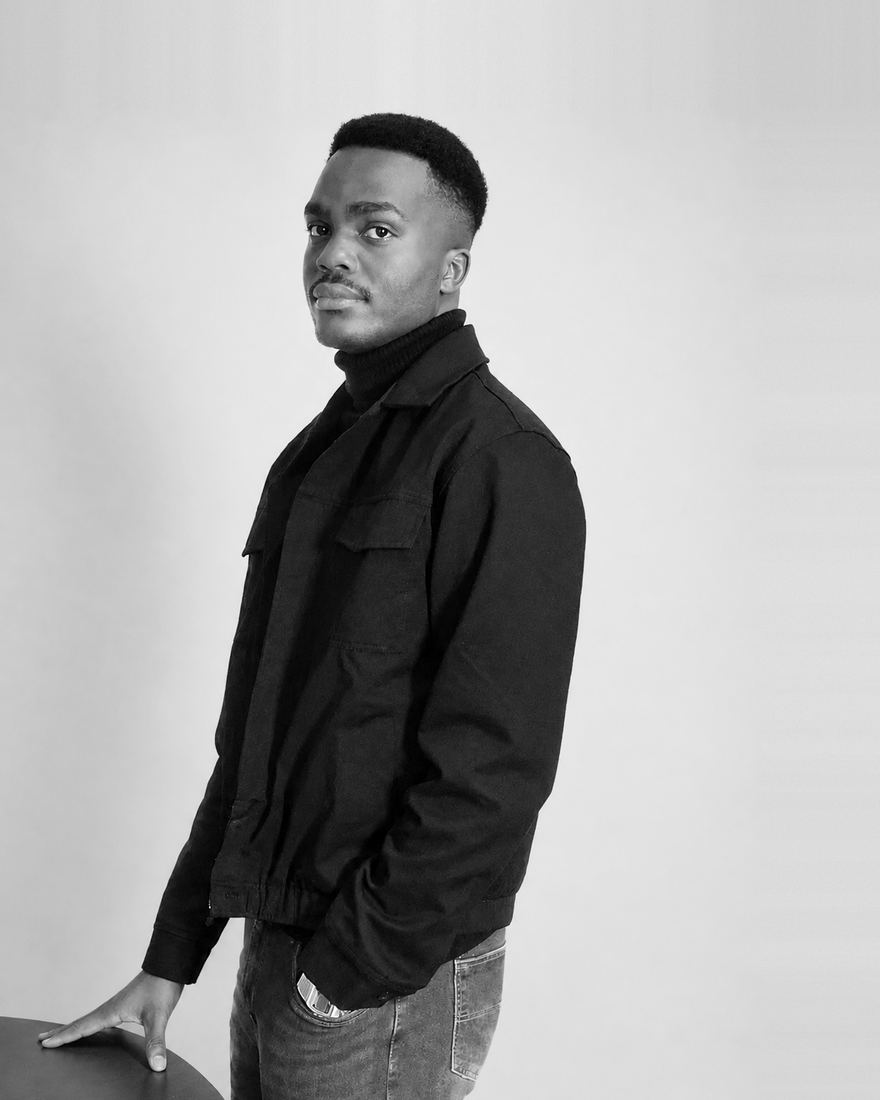
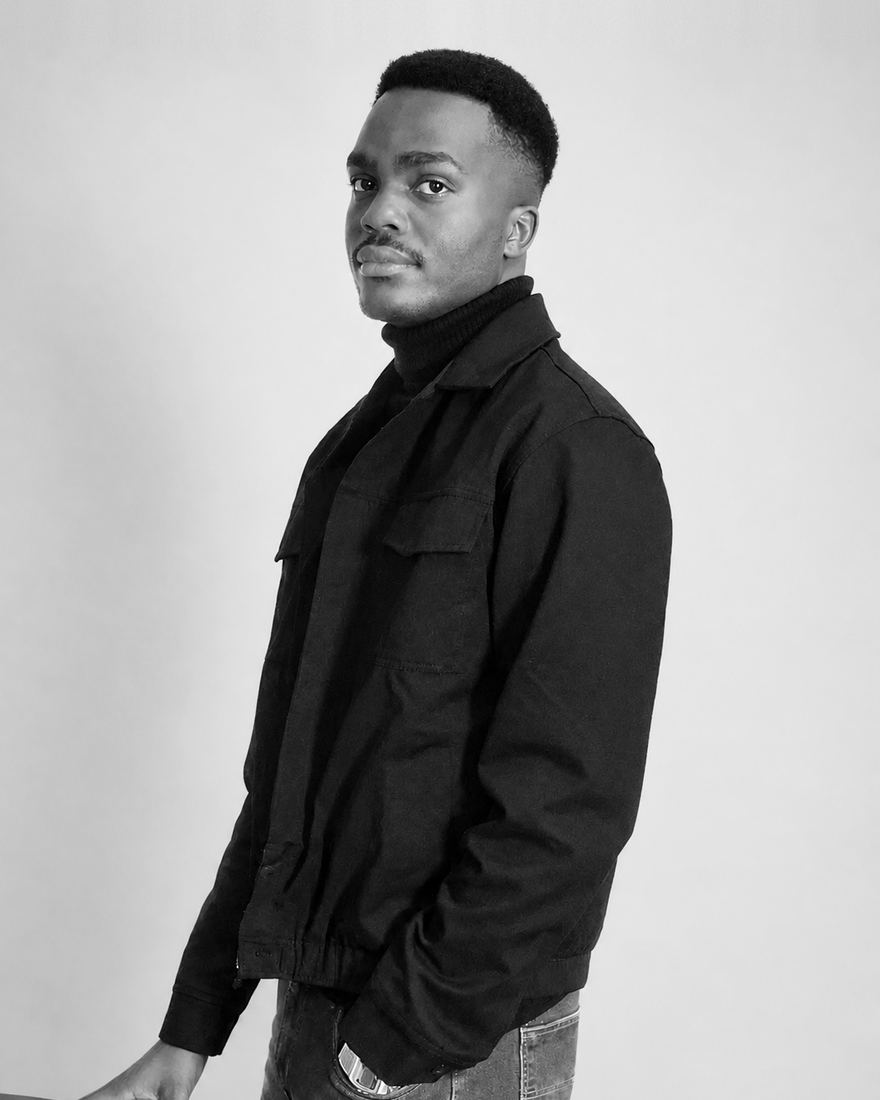
Add founder bio and centre founder portrait on face

diff --git a/index.html b/index.html
@@ -421,7 +421,7 @@
       </div>
       <div class="founder__copy reveal">
         <h2 class="h2" id="founder-h">Built by someone who’s done it.</h2>
-        <p class="intro">[BIO — 2–3 lines]</p>
+        <p class="intro">I’m Sam, founder of KingMaker. I build alongside a full-time job and finance studies, so I understand what it means to turn an idea into something sustainable with limited time and resources. I know the demands of building without a team, because I’ve had to do it myself. Every system I design for clients is one I’d trust to run my own businesses.</p>
         <span class="label">SAM THOMPSON — FOUNDER</span>
       </div>
     </div>

diff --git a/assets/img/CREDITS.md b/assets/img/CREDITS.md
@@ -21,7 +21,7 @@ Supplied by KingMaker (all rights reserved, not for reuse):
 | File | Notes |
 |---|---|
 | `packages/pawn`, `packages/knight`, `packages/king` | Chess set on black marble. Already black and white, so they skip the grading step. |
-| `founder/sam` | Founder portrait. Wall extended above the head and to the right so the 4:5 crop fits the head, the hand on the desk and the watch. Built with _tools-style script: top 150px, right 162px, source cropped at row 1410. Skips the grading step. |
+| `founder/sam` | Founder portrait. Cropped 1080 wide from x=6 so the face sits centre, rows 0–1300 kept, 50px of wall added above the head. No side extension. Skips the grading step. |
 
 ## Still to supply
 
